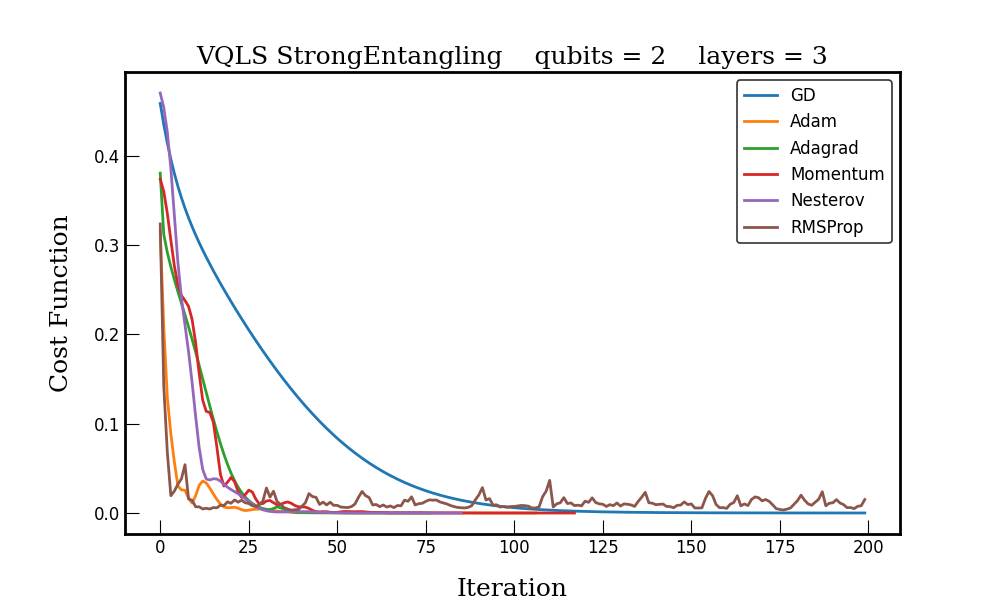
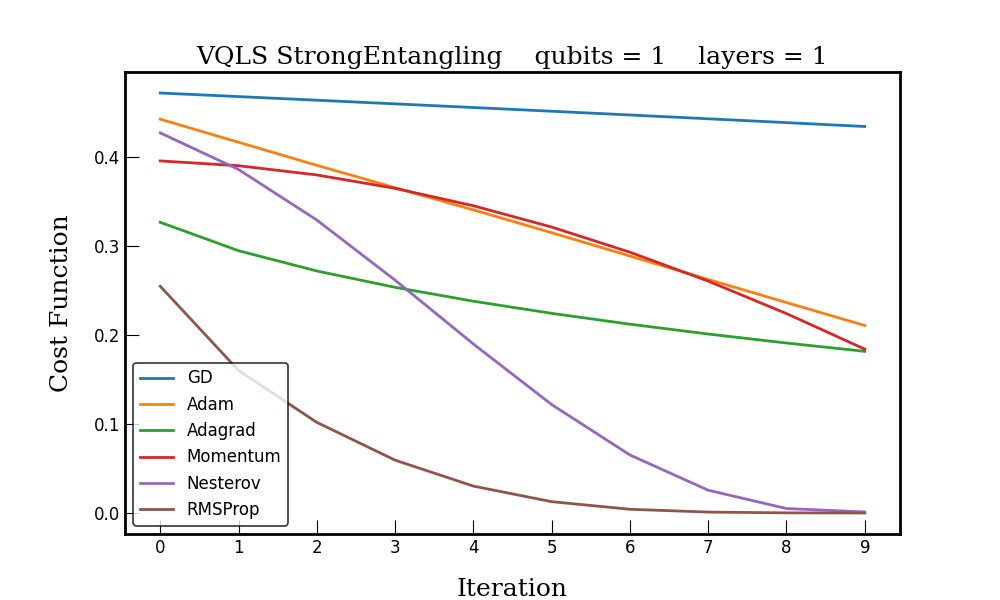
changed __init__ of VQLS class

diff --git a/src/solver/quantum/vqls/vqls.py b/src/solver/quantum/vqls/vqls.py
@@ -1,5 +1,4 @@
 import src.utils.utils as utils
-from skopt import gp_minimize
 import matplotlib.pyplot as plt
 from matplotlib.ticker import MaxNLocator
 from src.utils.ansatz import *
@@ -10,9 +9,19 @@ from src.utils.utils import get_paulis
 
 
 class VQLS:
-    def __init__(self, A, b):
+    def __init__(self):
+        self.c = None
+        self.wires = None
+        self.mats = None
+        self.nqubits = None
+        self.b = None
+        self.A = None
+        self.optimizer = None
+        self.stateprep = None
+        self.ansatz = None
+        self.backend = None
 
-        # linear system
+    def set_lse(self, A, b):
         self.A = A
         self.b = b
 
@@ -21,12 +30,6 @@ class VQLS:
 
         # Pauli decomposition
         self.mats, self.wires, self.c = get_paulis(self.A)
-
-        # quantum circuit
-        self.optimizer = None
-        self.stateprep = None
-        self.ansatz = None
-        self.backend = None
 
     def opt(self, optimizer=None, ansatz=None, stateprep=None, backend=None, epochs=100, tol=1e-4):
         """

diff --git a/examples/example_vqls.py b/examples/example_vqls.py
@@ -10,16 +10,17 @@ from src.utils.plotting import plot_costs
 np.random.seed(42)
 
 # number of qubits & layers
-nqubits = 2
-nlayers = 3
+nqubits = 1
+nlayers = 1
 
-maxiter = 200
-
-# random symmetric positive definite matrix
-A0, b0 = get_random_ls(nqubits, easy_example=True)
+maxiter = 10
 
 # init
-solver = VQLS(A=A0, b=b0)
+solver = VQLS()
+
+# set linear system
+A0, b0 = get_random_ls(nqubits, easy_example=True)  # random spd
+solver.set_lse(A=A0, b=b0)
 
 # choose optimizer
 optims = [GradientDescentQML(),
@@ -50,7 +51,7 @@ for optim in optims:
 
     wopts[optim.name] = wopt
 
-title = "VQLS {:s}    qubits = {:d}    layers = {:d}".format(ansatz_.__class__.__name__, nqubits, nlayers)
+title = "VQLS   {:s}    qubits = {:d}    layers = {:d}".format(ansatz_.__class__.__name__, nqubits, nlayers)
 plot_costs(data=cost_hists, save_png=True, title=title, fname="loss_vqls")
 
 device_probs = LightningQubit(wires=nqubits, shots=10000)

diff --git a/tests/test_solvers.py b/tests/test_solvers.py
@@ -62,7 +62,5 @@ class TestSolvers(unittest.TestCase):
         np.allclose(x, solver.xprobs, atol=1e-8)
 
 
-
-
 if __name__ == '__main__':
     unittest.main()
